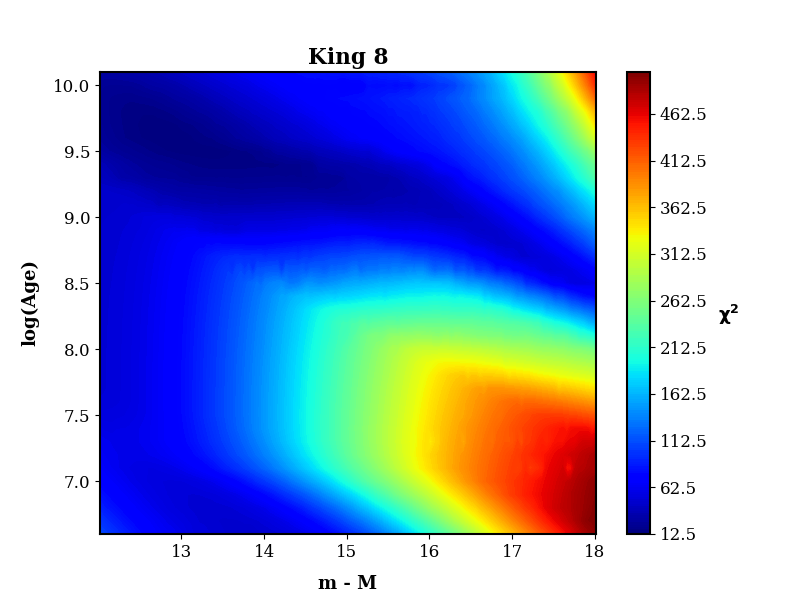
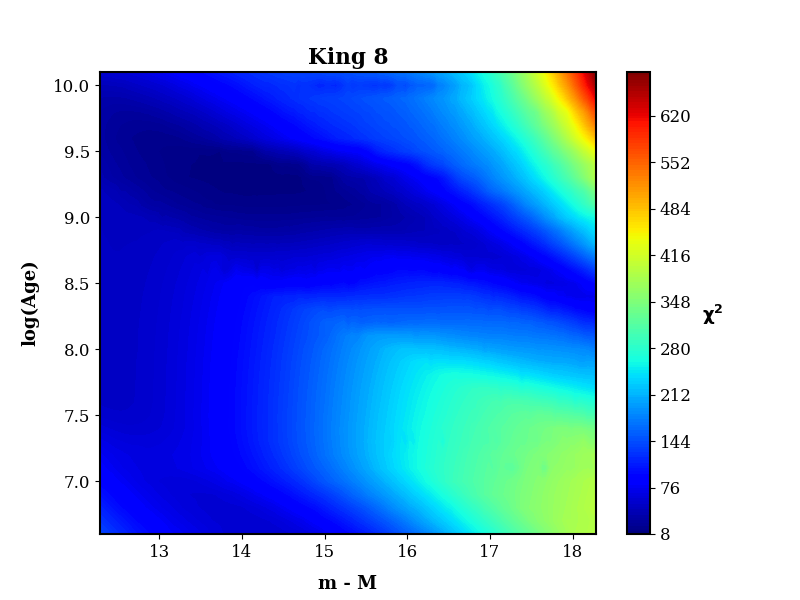
trying to solve king 8 and berkeley 23

diff --git a/dados/Ag_Reais/GAIA/Berkeley23*-*/do.py b/dados/Ag_Reais/GAIA/Berkeley23*-*/do.py
@@ -29,13 +29,14 @@ def rename(string):
     return string.replace(' ', '')
 arquivo = 'berkeley23.csv'
 
-#modulo_teorico = 5*np.log10(987) - 5 ###
-modulo_teorico = 13.67
-idade_teorica = 9.0
+modulo_teorico = 5*np.log10(4842) - 5 ###
+#modulo_teorico = 13.67
+#idade_teorica = 9.0
+idade_teorica = 9.2
 
 def global_var(x):
     global aglomerado, isocronas, E, idades, XAglo, YAglo, AGLO
-    Av = 0.83
+    Av = 0.862
     E = Av/3.1
     aglomerado =  pd.read_csv(x, usecols = ['Gmag','BP-RP'])
     #isocronas = pd.read_csv('../../../Isocronas/isocro.csv', header = 0)
@@ -89,7 +90,7 @@ print('log(Age) Teórica: ', idade_teorica)
 print('V - M_V Observado: ', modulo_teorico)
 print('\n')
 
-def regressao_aglomerado(n_sigma = 1):
+def regressao_aglomerado(n_sigma = 2):
     x = XAglo
     y = YAglo
     regressao_inicial = linregress(x,y)

diff --git a/dados/Ag_Reais/GAIA/King8*-*/do.py b/dados/Ag_Reais/GAIA/King8*-*/do.py
@@ -29,13 +29,13 @@ def rename(string):
     return string.replace(' ', '')
 arquivo = 'king8.csv'
 
-#modulo_teorico = 5*np.log10(987) - 5 ###
-modulo_teorico = 13.71
+modulo_teorico = 5*np.log10(3944) - 5 ###
+#modulo_teorico = 15.83
 idade_teorica = 8.9
 
 def global_var(x):
     global aglomerado, isocronas, E, idades, XAglo, YAglo, AGLO
-    Av = 1.38
+    Av = 1.9
     E = Av/3.1
     aglomerado =  pd.read_csv(x, usecols = ['Gmag','BP-RP'])
     #isocronas = pd.read_csv('../../../Isocronas/isocro.csv', header = 0)
